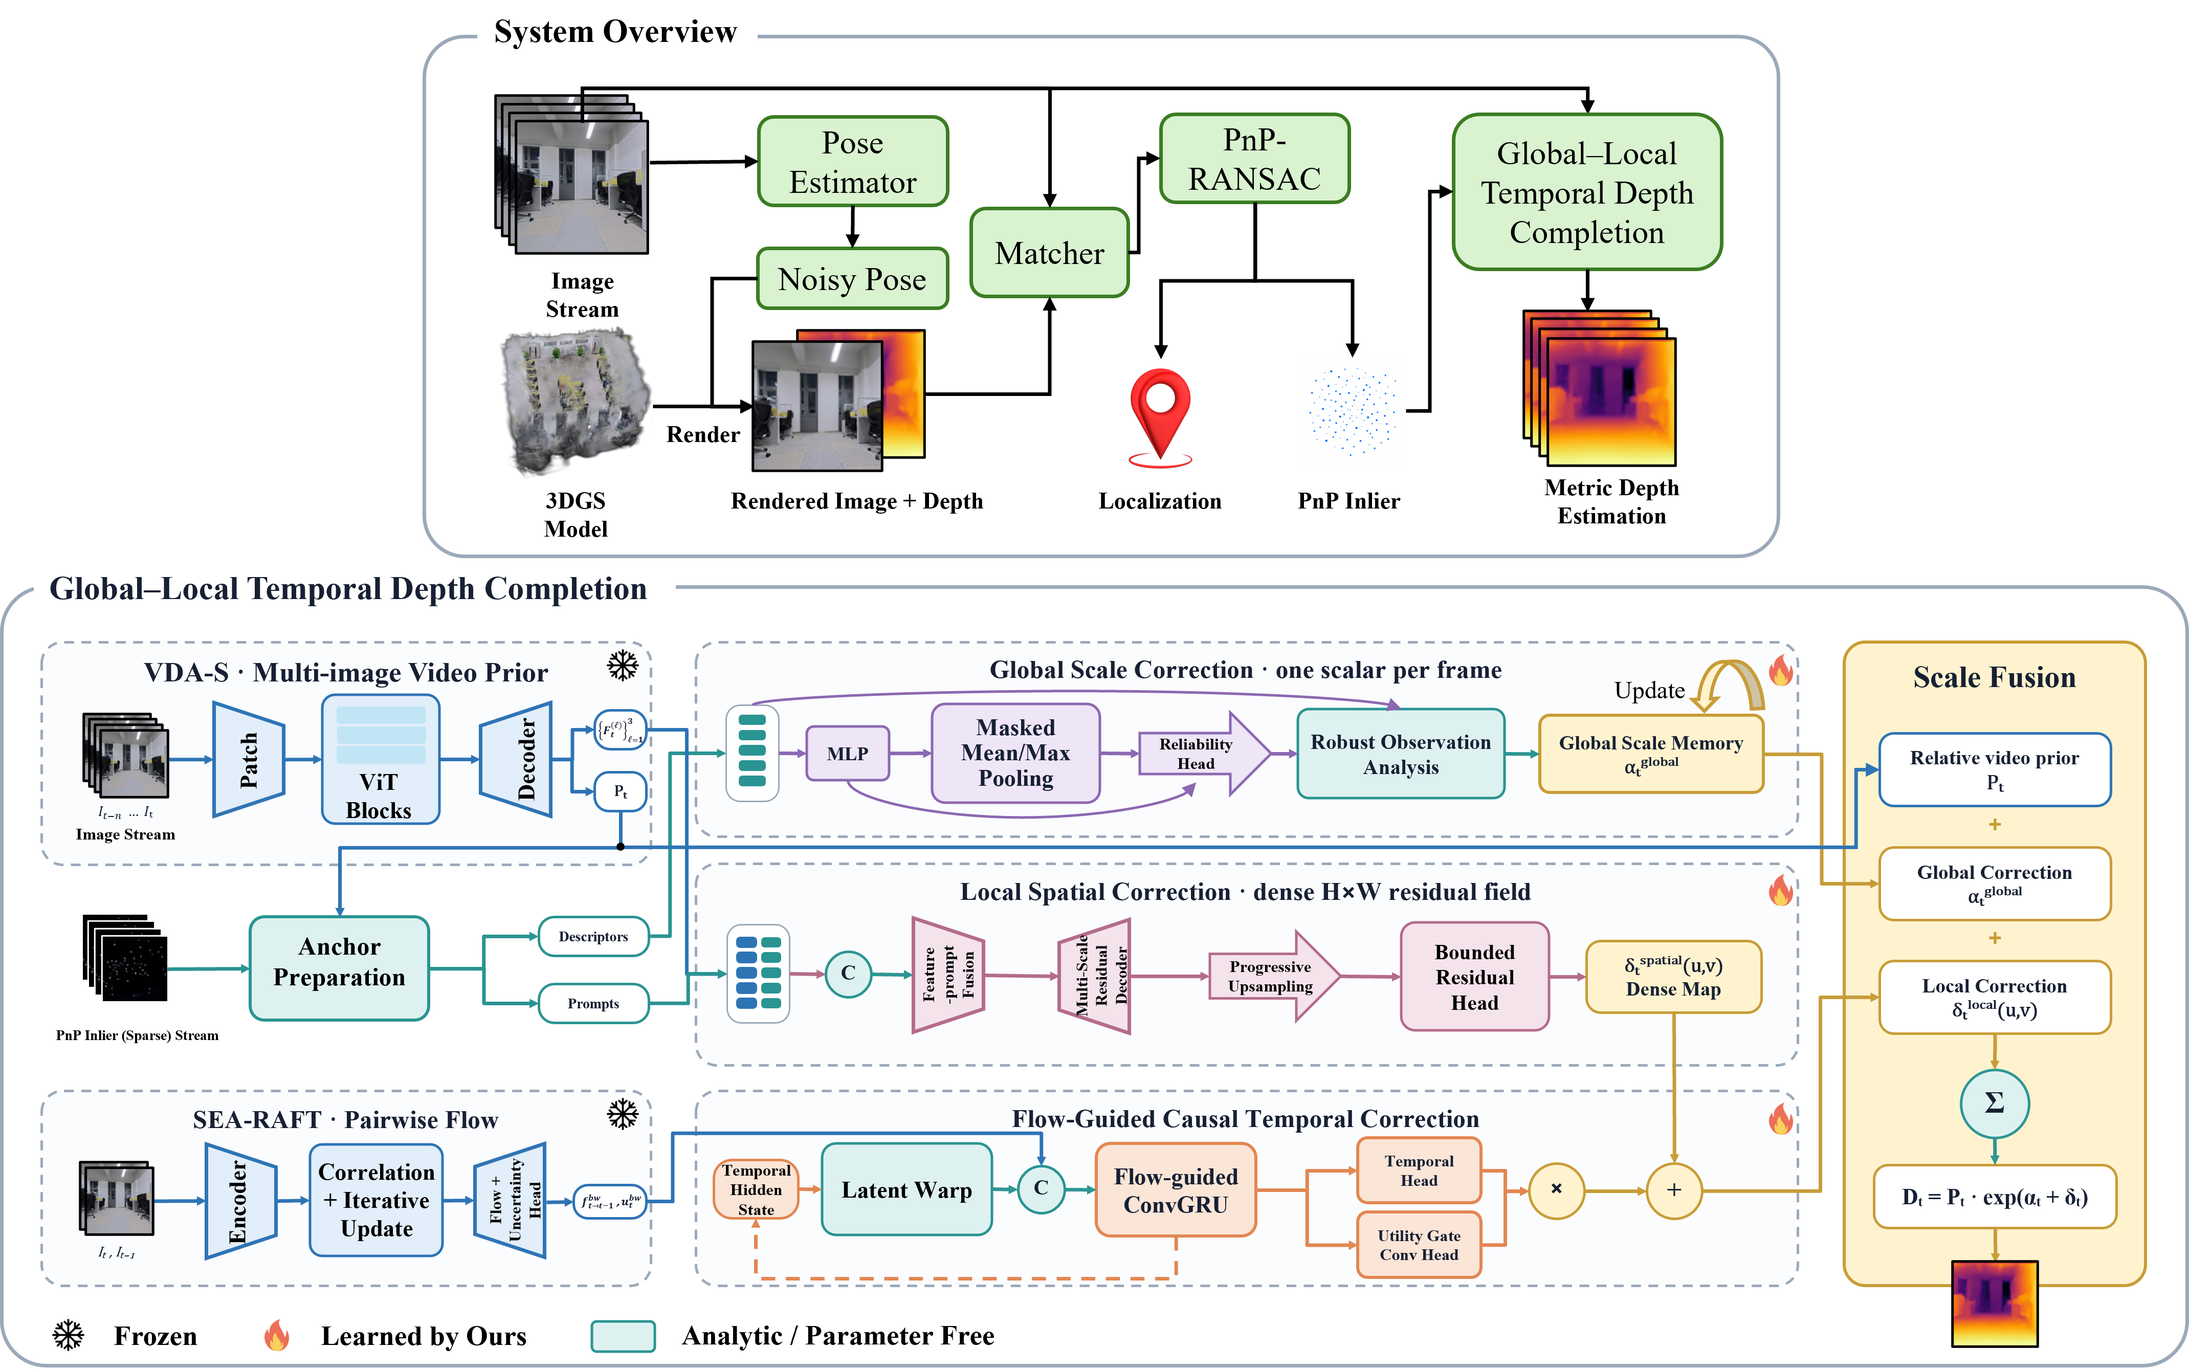
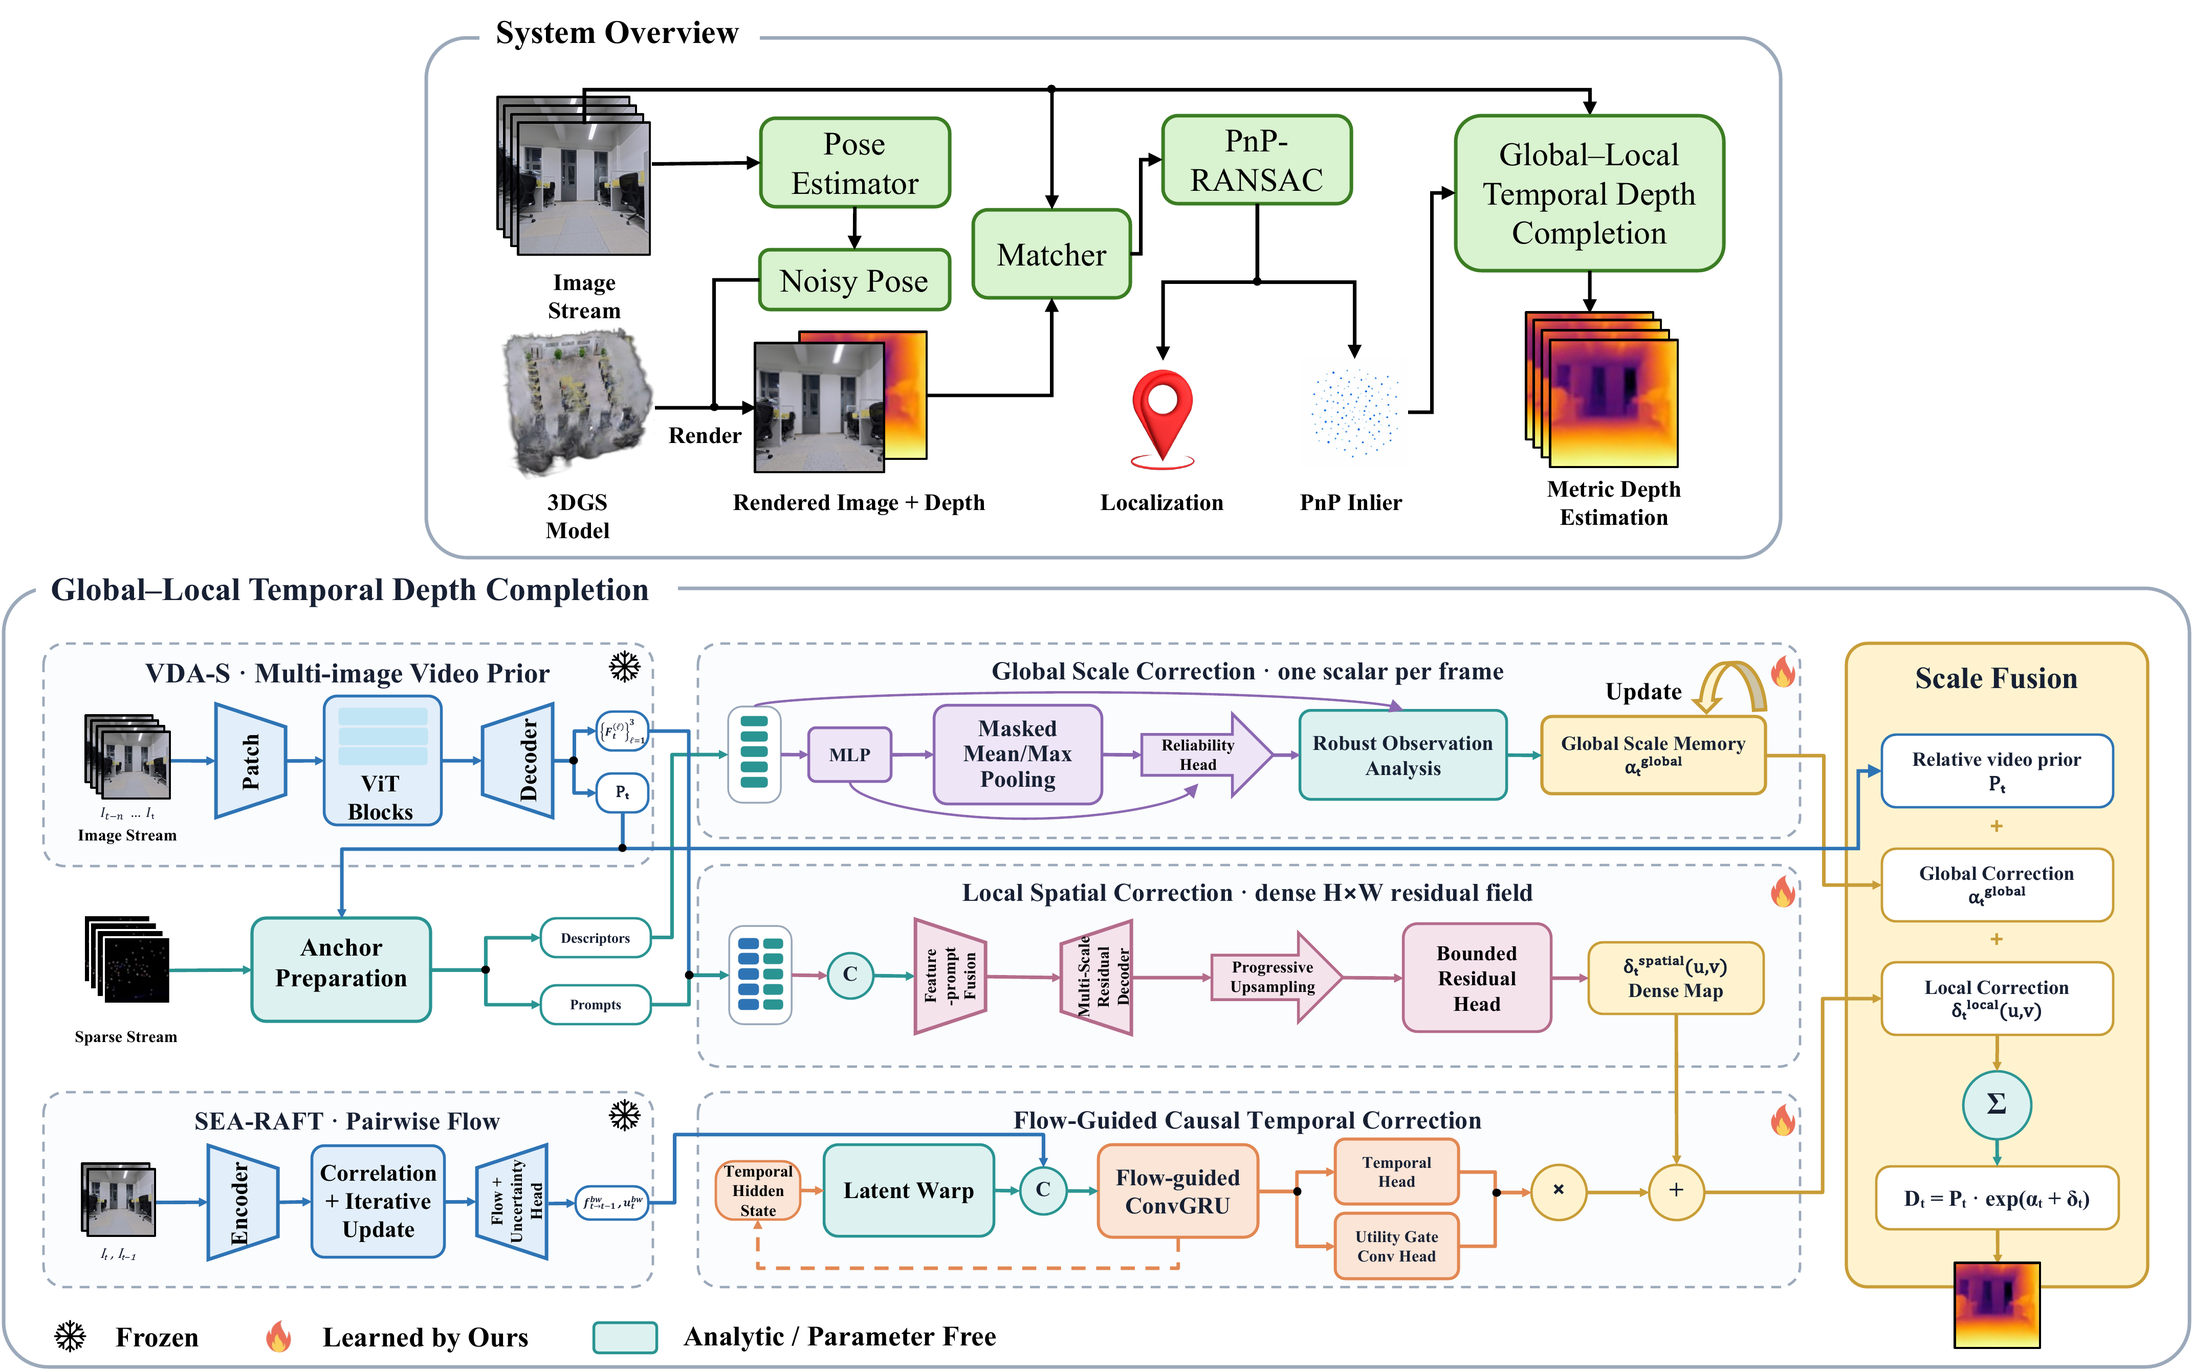
Sync project page with latest paper

diff --git a/docs/index.html b/docs/index.html
@@ -12,21 +12,21 @@
     <link rel="canonical" href="https://lian-jiarong.github.io/RIDE-Relocalization-Informed-Depth-Estimation/" />
     <meta property="og:type" content="website" />
     <meta property="og:url" content="https://lian-jiarong.github.io/RIDE-Relocalization-Informed-Depth-Estimation/" />
-    <meta property="og:title" content="RIDE: Relocalization-Informed Depth Estimation" />
+    <meta property="og:title" content="RIDE: Relocalization-Informed Depth Estimation with 3D Gaussian Splatting" />
     <meta
       property="og:description"
       content="Turn pose correspondences into dense metric depth."
     />
     <meta property="og:image" content="https://lian-jiarong.github.io/RIDE-Relocalization-Informed-Depth-Estimation/assets/media/og.png" />
     <meta name="twitter:card" content="summary_large_image" />
-    <meta name="twitter:title" content="RIDE: Relocalization-Informed Depth Estimation" />
+    <meta name="twitter:title" content="RIDE: Relocalization-Informed Depth Estimation with 3D Gaussian Splatting" />
     <meta
       name="twitter:description"
       content="Turn pose correspondences into dense metric depth."
     />
     <meta name="twitter:image" content="https://lian-jiarong.github.io/RIDE-Relocalization-Informed-Depth-Estimation/assets/media/og.png" />
-    <title>RIDE: Relocalization-Informed Depth Estimation</title>
-    <link rel="stylesheet" href="./styles.css?v=20260830-exhibition" />
+    <title>RIDE: Relocalization-Informed Depth Estimation with 3D Gaussian Splatting</title>
+    <link rel="stylesheet" href="./styles.css?v=20260910-paper-sync" />
   </head>
 
   <body>
@@ -56,16 +56,17 @@
     <main id="main-content">
       <section class="hero container" id="top">
         <div class="hero-copy">
-          <p class="eyebrow">RIDE: Relocalization-Informed Depth Estimation</p>
+          <p class="eyebrow">RIDE: Relocalization-Informed Depth Estimation with 3D Gaussian Splatting</p>
           <h1>
             Turn pose correspondences into
             <span class="depth-text">dense metric depth.</span>
           </h1>
           <p class="hero-lede">
             RIDE reuses PnP–RANSAC inliers from relocalization against a metric
-            3D Gaussian Splatting map as sparse depth anchors. A frozen video-depth
-            prior is then calibrated at global, local, and temporal scales—without
-            future frames.
+            3D Gaussian Splatting map as sparse depth anchors. Robust global-scale
+            estimation, bounded spatial correction, and flow-guided causal memory
+            calibrate a frozen VDA-S prior, sustaining metric depth through short
+            anchor gaps after scale initialization.
           </p>
           <div class="hero-actions">
             <a class="button button-primary" href="#demo">Watch the result</a>
@@ -196,32 +197,32 @@
           <div class="flow-step">
             <span>Input</span>
             <strong>Causal RGB stream</strong>
-            <small>Current and previous frames</small>
+            <small>Frames through the current time</small>
           </div>
           <div class="flow-step">
             <span>Scene map</span>
             <strong>Metric 3DGS</strong>
-            <small>Rendered RGB and metric depth</small>
+            <small>Rendered RGB and depth from a coarse pose</small>
           </div>
           <div class="flow-step">
             <span>Relocalize</span>
             <strong>Render · match · PnP-RANSAC</strong>
-            <small>Pose plus verified inliers</small>
+            <small>Refined pose plus verified inliers</small>
           </div>
           <div class="flow-step flow-accent">
             <span>Reuse</span>
-            <strong>Pixel–depth anchors</strong>
-            <small>PnP inliers as sparse metric evidence</small>
+            <strong>Query pixel–depth anchors</strong>
+            <small>Optical-axis depth from PnP inliers</small>
           </div>
           <div class="flow-step">
             <span>Calibrate prior</span>
-            <strong>Global scale · local residual · temporal memory</strong>
-            <small>Frozen VDA-S remains the base</small>
+            <strong>Global scale · spatial residual · temporal memory</strong>
+            <small>Frozen VDA-S and SEA-RAFT remain the base</small>
           </div>
           <div class="flow-step flow-output">
             <span>Output</span>
             <strong>Dense metric depth</strong>
-            <small>Causal prediction per frame</small>
+            <small>Causal output after scale initialization</small>
           </div>
         </div>
 
@@ -229,29 +230,30 @@
           <div class="figure-kicker">Paper figure · Complete RIDE architecture</div>
           <a
             class="method-overview-viewport"
-            href="./assets/figures/full-architecture.png?v=20260830-2"
+            href="./assets/figures/full-architecture.png?v=20260910"
             target="_blank"
             rel="noreferrer"
             aria-label="Open the complete RIDE architecture figure at full resolution"
           >
             <img
-              src="./assets/figures/full-architecture.png?v=20260830-2"
-              alt="RIDE system overview: PnP inlier anchors calibrate a frozen VDA-S prior using global scale, local spatial, and flow-guided causal temporal corrections."
-              width="4279"
-              height="2676"
+              src="./assets/figures/full-architecture.png?v=20260910"
+              alt="RIDE system overview and global-local-temporal architecture: PnP inlier anchors calibrate a frozen VDA-S prior using recurrent global scale, local spatial, and flow-guided causal temporal corrections."
+              width="4286"
+              height="2682"
               loading="lazy"
               decoding="async"
             />
           </a>
           <figcaption id="ride-overview-caption">
-            Overview of RIDE. PnP inliers from relocalization against a metric 3DGS map
-            calibrate a frozen VDA-S prior through global, spatial, and flow-guided
-            temporal corrections. Snowflakes, flames, and green blocks denote frozen
-            backbones, modules trained within RIDE, and analytic operations, respectively.
+            RIDE couples render–match–PnP relocalization with dense metric depth.
+            Learned reliability, recurrent global-scale memory, bounded spatial residuals,
+            and flow-guided causal memory calibrate a frozen VDA-S prior. Snowflakes,
+            flames, and teal blocks denote frozen backbones, modules learned by RIDE,
+            and analytic or parameter-free operations, respectively.
           </figcaption>
           <a
             class="button button-secondary"
-            href="./assets/figures/full-architecture.png?v=20260830-2"
+            href="./assets/figures/full-architecture.png?v=20260910"
             target="_blank"
             rel="noreferrer"
             aria-describedby="ride-overview-caption"
@@ -269,15 +271,15 @@
               <h2>Competitive on LingBot, leading on robot routes.</h2>
             </div>
             <p>
-              RIDE ranks first on three of five LingBot metrics and second on the other
-              two, then obtains the best reported point estimates across all three
+              RIDE ranks first on three of four LingBot metrics and second on AbsRel,
+              then obtains the best reported point estimates across all three
               real-world robot metrics.
             </p>
           </div>
 
           <div class="headline-results">
             <div class="headline-card">
-              <span class="headline-number">3 / 5</span>
+              <span class="headline-number">3 / 4</span>
               <div>
                 <strong>Best LingBot metrics</strong>
                 <p>δ1 · held-out log error · TGE</p>
@@ -286,8 +288,8 @@
             <div class="headline-card">
               <span class="headline-number">#2</span>
               <div>
-                <strong>LingBot AbsRel and Excl.-r4</strong>
-                <p>Ahead of eight of nine baselines on both</p>
+                <strong>LingBot AbsRel</strong>
+                <p>2nd · ahead of eight of nine baselines</p>
               </div>
             </div>
             <div class="headline-card">
@@ -304,12 +306,11 @@
               <div class="evaluation-group-header">
                 <div>
                   <p class="eyebrow">LingBot benchmark</p>
-                  <h3>Three wins, two runner-up results.</h3>
+                  <h3>Three wins, one runner-up result.</h3>
                 </div>
                 <p>
-                  RIDE leads δ1, held-out log error, and TGE. PriorDA v1.1 leads AbsRel
-                  and Excl.-r4; RIDE ranks second on both and outperforms the other eight
-                  baselines.
+                  RIDE leads δ1, held-out log error, and TGE. PriorDA v1.1 leads AbsRel;
+                  RIDE ranks second and outperforms the other eight baselines.
                 </p>
               </div>
               <div class="metric-grid" aria-label="RIDE LingBot benchmark metrics and rankings">
@@ -323,20 +324,15 @@
                   <strong>δ1 ↑</strong>
                   <small>Best · +1.47 pp vs. PriorDA</small>
                 </article>
-                <article class="metric-card metric-card-runner-up">
-                  <span class="metric-value">0.1118</span>
-                  <strong>Excl.-r4 AbsRel ↓</strong>
-                  <small>2nd · PriorDA 0.0920</small>
-                </article>
                 <article class="metric-card metric-card-best">
                   <span class="metric-value">0.0675</span>
                   <strong>Held-out log ↓</strong>
-                  <small>Best · 11.6% lower vs. PriorDA</small>
+                  <small>Best · 6.5% lower vs. Any2Full</small>
                 </article>
                 <article class="metric-card metric-card-best">
                   <span class="metric-value">0.0394</span>
                   <strong>TGE ↓</strong>
-                  <small>Best · 49.7% lower vs. PriorDA</small>
+                  <small>Best · 41.5% lower vs. spatial variant</small>
                 </article>
               </div>
             </article>
@@ -446,37 +442,39 @@
               <p class="eyebrow">Ablation</p>
               <h3>Each correction stage earns its place.</h3>
               <p>
-                In the ablation study, the spatial branch substantially lowers frame-wise
-                error; causal temporal correction further improves both depth accuracy and
-                temporal consistency.
+                The spatial decoder substantially lowers frame-wise error. Full RIDE adds
+                global-scale memory and flow-guided temporal correction, improving both
+                depth accuracy and temporal consistency.
               </p>
             </div>
-            <div class="ablation-chart" role="img" aria-label="Ablation values for AbsRel and TGE">
+            <div class="ablation-chart" role="img" aria-label="Ablation AbsRel and TGE for Global only, Spatial only, and Full RIDE">
               <div class="chart-head"><span>Variant</span><span>AbsRel</span><span>TGE</span></div>
               <div class="chart-row">
                 <strong>Global only</strong>
-                <div class="bar"><i style="width: 100%"></i><span>0.21732</span></div>
-                <div class="bar bar-warm"><i style="width: 100%"></i><span>0.07129</span></div>
+                <div class="bar"><i style="width: 100%"></i><span>0.2173</span></div>
+                <div class="bar bar-warm"><i style="width: 100%"></i><span>0.0713</span></div>
               </div>
               <div class="chart-row">
-                <strong>+ Spatial</strong>
-                <div class="bar"><i style="width: 54.2%"></i><span>0.11784</span></div>
-                <div class="bar bar-warm"><i style="width: 72.0%"></i><span>0.05132</span></div>
+                <strong>Spatial only</strong>
+                <div class="bar"><i style="width: 54.2%"></i><span>0.1178</span></div>
+                <div class="bar bar-warm"><i style="width: 72.0%"></i><span>0.0513</span></div>
               </div>
               <div class="chart-row chart-best">
-                <strong>+ Temporal</strong>
-                <div class="bar"><i style="width: 43.6%"></i><span>0.09466</span></div>
-                <div class="bar bar-warm"><i style="width: 49.6%"></i><span>0.03537</span></div>
+                <strong>Full RIDE</strong>
+                <div class="bar"><i style="width: 43.6%"></i><span>0.0947</span></div>
+                <div class="bar bar-warm"><i style="width: 49.6%"></i><span>0.0354</span></div>
               </div>
             </div>
           </div>
 
           <p class="benchmark-note">
             The robot evaluation covers 3,012 frames along 27 routes across five real-world
-            scenes. All methods are run on the same input frames. AbsRel and δ1 are computed
-            over valid registered RGB-D reference pixels, while TGE uses the same precomputed
-            flow and temporal-validity masks for all methods. Registered RGB-D and held-out
-            anchors are not used for test-time calibration.
+            scenes. Every method processes the same frames. AbsRel and δ1 are scored on the
+            intersection of each method's valid-output mask and the required registered RGB-D
+            reference mask; TGE additionally uses shared precomputed flow and temporal-validity
+            masks. Models use weights trained on public RGB-D sequences without robot-data
+            training or fine-tuning. Registered RGB-D is evaluation-only, and robot PnP anchors
+            are deployment inputs rather than held-out calibration targets.
           </p>
         </div>
       </section>
@@ -529,24 +527,25 @@
         <div class="container">
           <div class="section-heading">
             <p class="eyebrow">System boundary</p>
-            <h2>Training and deployment use the same anchor interface.</h2>
+            <h2>Training and deployment share a pixel–depth anchor interface.</h2>
           </div>
           <div class="boundary-grid">
             <article>
               <span class="boundary-label">Training</span>
               <h3>Controlled anchor failures</h3>
               <p>
-                Registered depth sampled at valid corners provides clean synthetic anchors.
-                Dropout, clustering, background leakage, and perturbations simulate
-                relocalization failures on public RGB-D video data.
+                Registered depth sampled at detected feature locations provides RGB-D-derived
+                anchors. Withholding, dropout, count caps, structured outliers, and anchor
+                outages simulate relocalization conditions on public RGB-D videos.
               </p>
             </article>
             <article>
               <span class="boundary-label">Deployment</span>
-              <h3>Real-world PnP inliers</h3>
+              <h3>Relocalization-derived PnP inliers</h3>
               <p>
-                The same interface receives uncertain sparse anchors from the 3DGS
-                relocalization front end. RGB-D is not used at inference.
+                The same interface receives sparse anchors from the metric 3DGS
+                relocalization front end. The learned weights transfer without robot-data
+                fine-tuning; RGB-D remains evaluation-only.
               </p>
             </article>
           </div>

diff --git a/docs/styles.css b/docs/styles.css
@@ -932,7 +932,7 @@ h3 {
 
 .metric-grid {
   display: grid;
-  grid-template-columns: repeat(5, minmax(0, 1fr));
+  grid-template-columns: repeat(4, minmax(0, 1fr));
   gap: 10px;
 }
 
@@ -1206,6 +1206,10 @@ h3 {
 
 @media (max-width: 1120px) {
   .metric-grid {
+    grid-template-columns: repeat(2, minmax(0, 1fr));
+  }
+
+  .robot-metric-grid {
     grid-template-columns: repeat(3, minmax(0, 1fr));
   }
 
